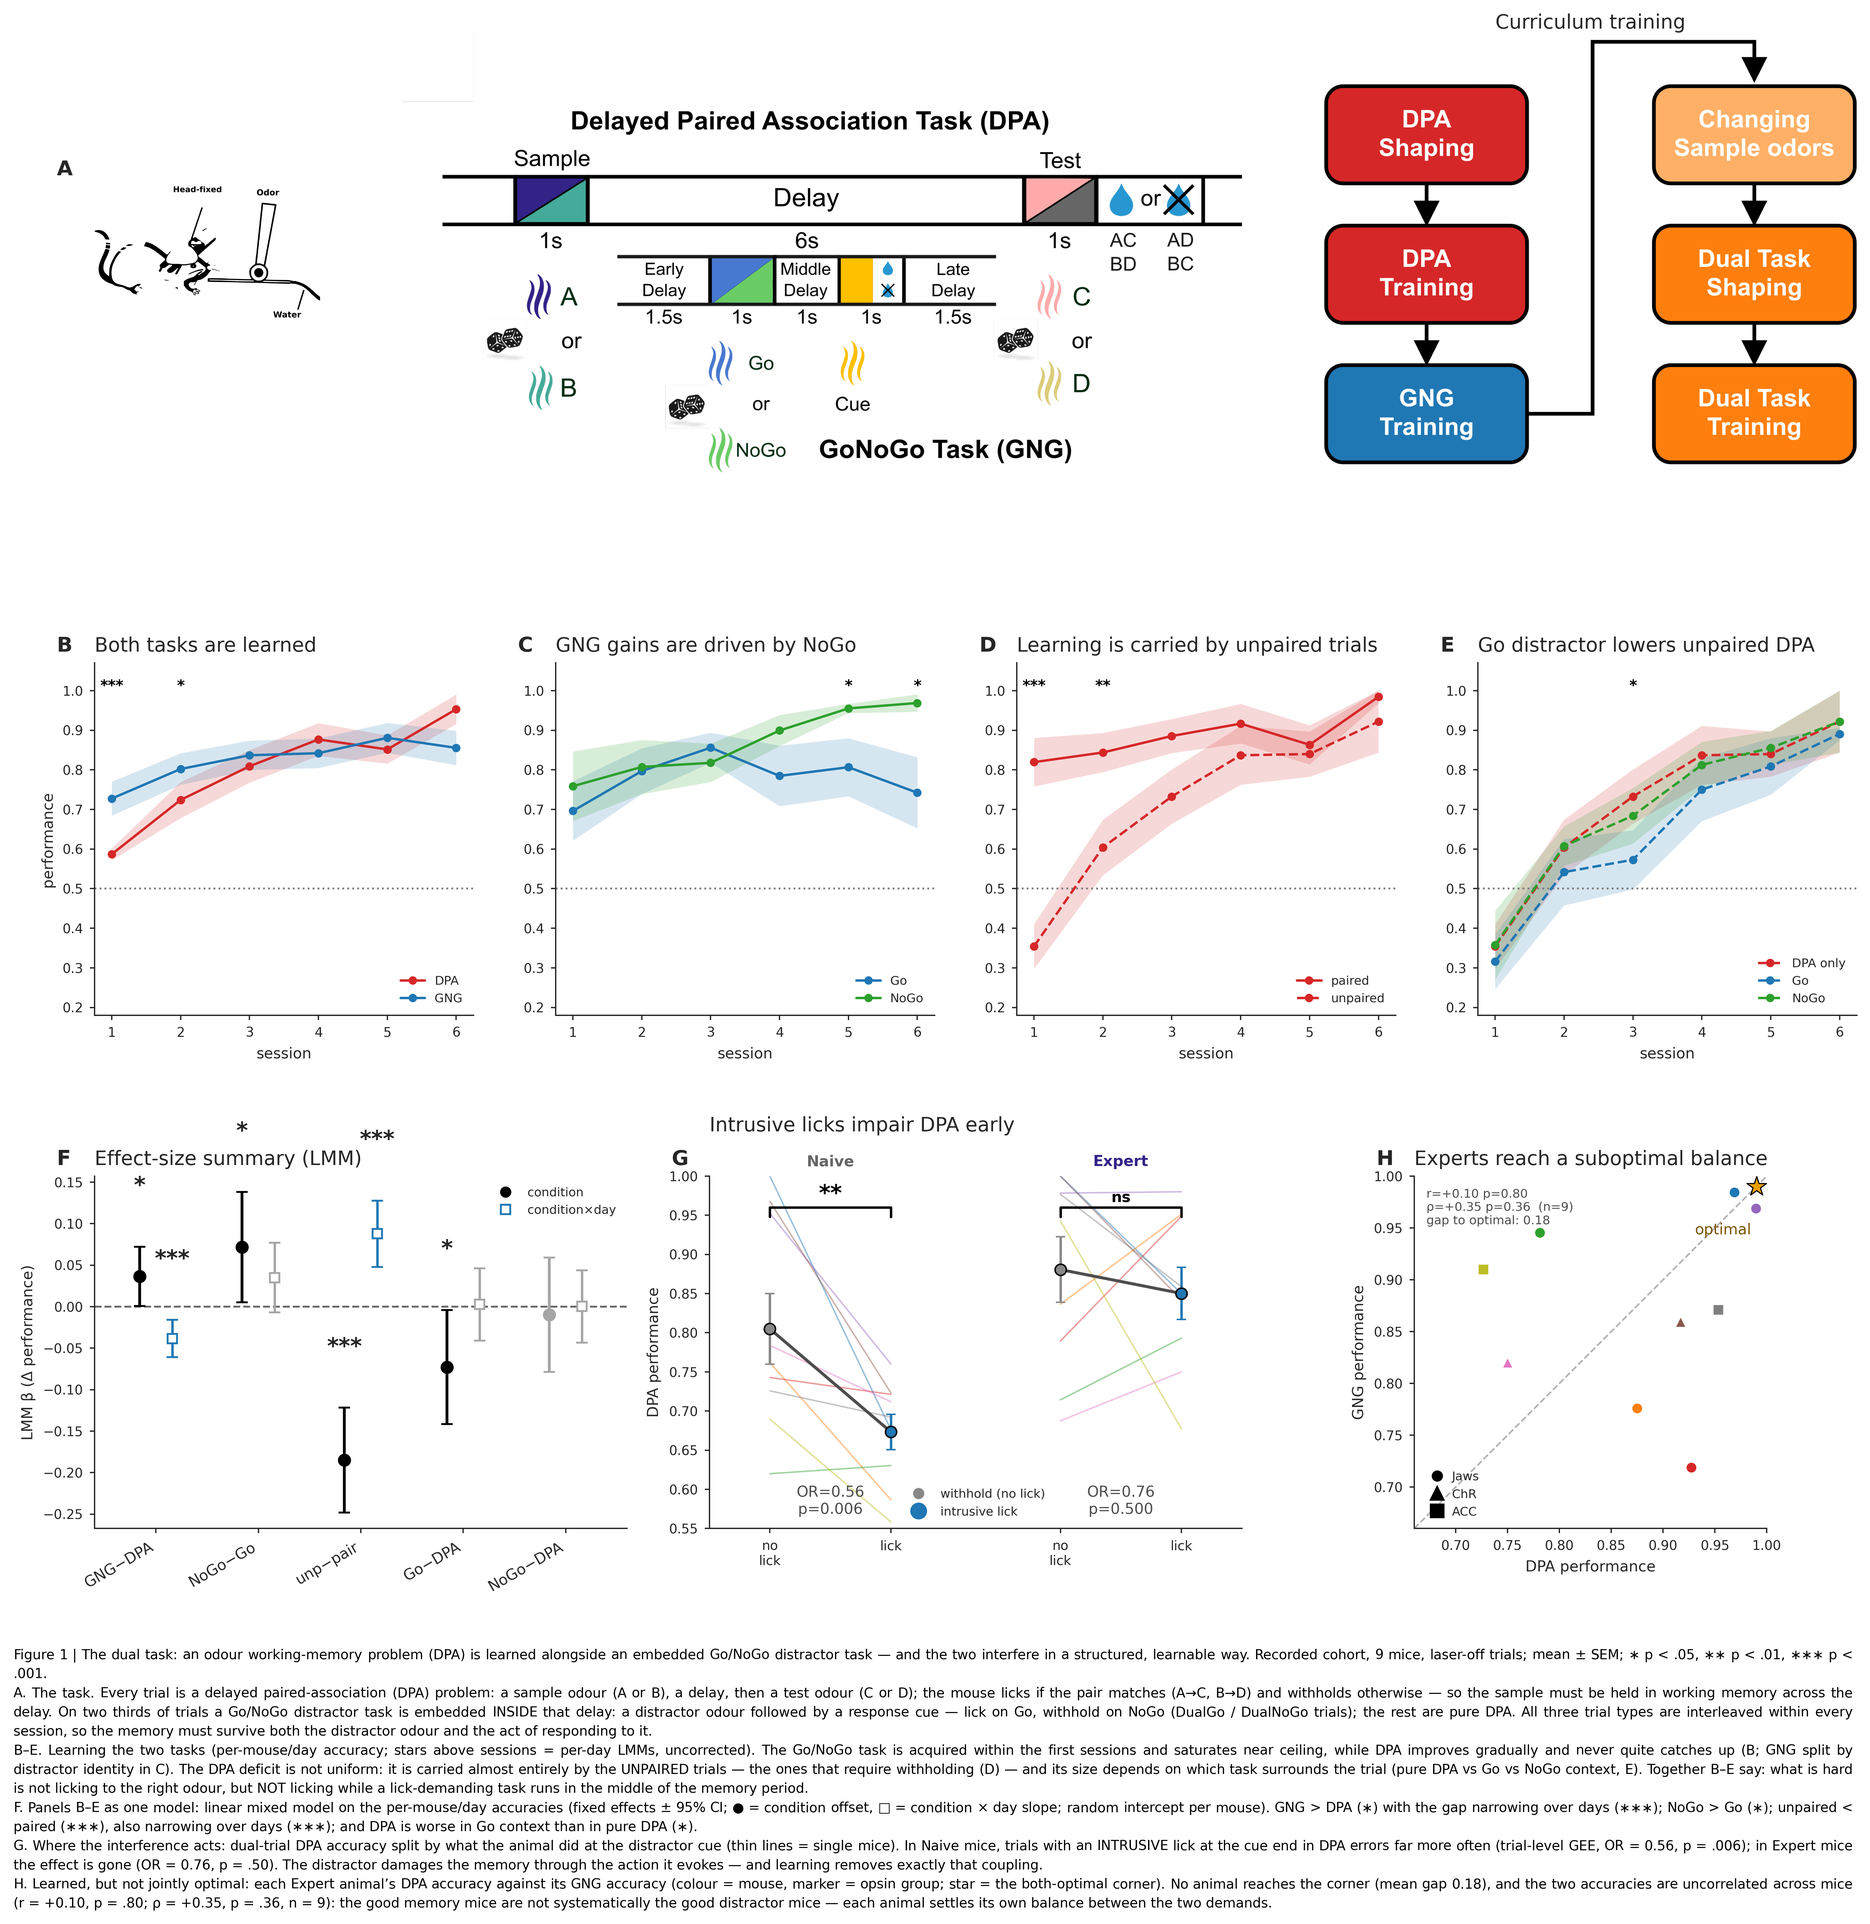
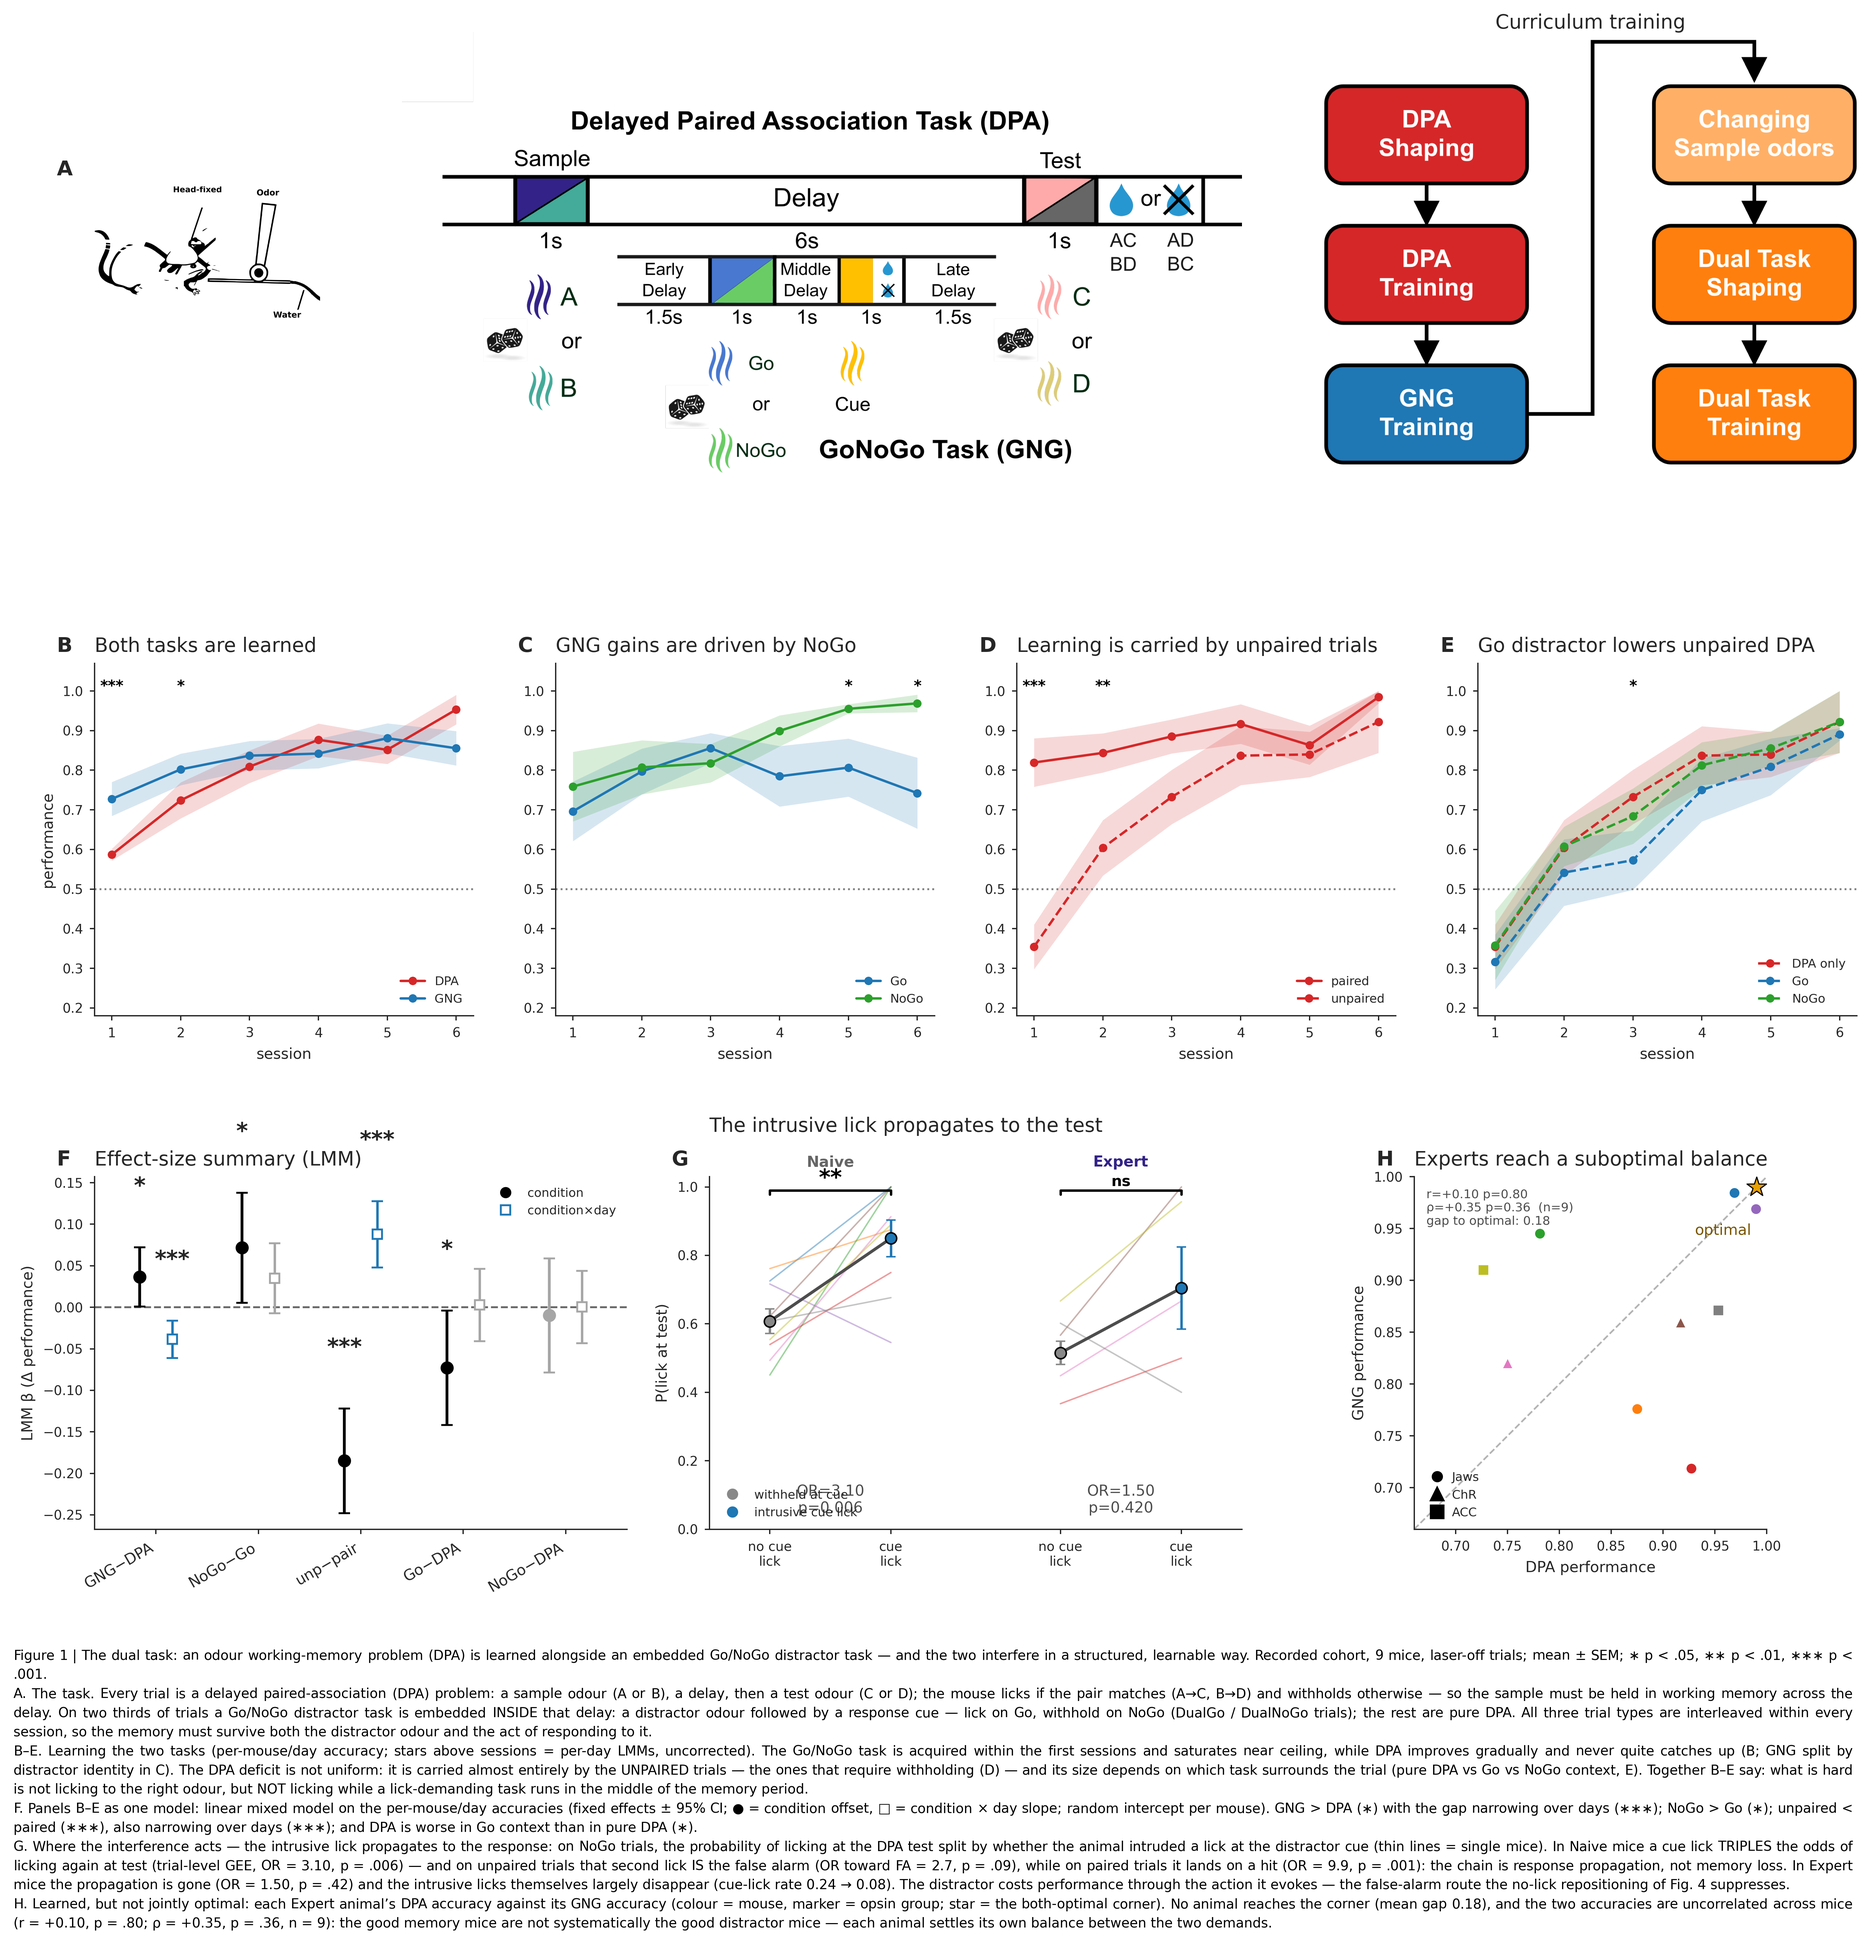
Fig 1g rebuilt: the intrusive cue lick propagates to the test lick (FA route)
User framing confirmed: the delay lick leads to FALSE ALARMS via response
propagation (the chain the Fig-4 push suppresses), not memory corruption.
Panel now: predictor = cue lick (odr_choice), outcome = P(lick at test);
Naive OR=3.10 p=.006 **, Expert OR=1.50 p=.42 ns; FA arm (unpaired)
OR=2.73 p=.090; paired arm OR=9.9 p=.001 toward a HIT (anti-corruption
control); cue-lick rate 0.24->0.08. Old any-lick build (OR=0.56) retired
as near-circular (test lick = 96.5% of the predictor).

Draft: S1 header + passage recast to FA propagation; abstract/S2/S4/
Discussion clauses aligned; Methods GEE description updated; to-reconcile
item resolved. behavior.md panel-G entry rewritten with the historical
note.

Claude-Session: https://claude.ai/code/session_01U5815xHXRaRQ7YCxMTgCsM

diff --git a/overlaps/fig_behavior_main.py b/overlaps/fig_behavior_main.py
@@ -12,7 +12,7 @@ Combines the full behaviour_learning panel set with the new mechanistic panels.
   F  LMM fixed-effect coefficients (condition + condition×day, 95% CI).
   ── new panels ──
   G  Interference: DPA accuracy by condition (pure → NoGo → Go, ordered by lick
-     rate); intrusive NoGo lick → DPA↓ (GEE, Naive).
+     rate); intrusive NoGo CUE lick propagates to the test lick (GEE, Naive ∗; FA route; rebuilt 2026-09-01).
   H  Suboptimal balance: per-animal DPA vs GNG (Expert); none reaches both-optimal.
 
 Panels B–F reproduce fig_behavior_learning.py (helpers copied per repo convention,
@@ -291,21 +291,28 @@ axF.legend(handles=[mlines.Line2D([0], [0], marker='o', color='k', ls='none', ms
                     mlines.Line2D([0], [0], marker='s', color=BLUE, mfc='white', ls='none', ms=5, label='condition×day')],
            frameon=False, fontsize=6.5, loc='upper right')
 
-# ── G: intrusive licks impair DPA — NoGo trials, no-lick vs lick (Naive+Expert) ─
-#   On NoGo trials a lick is always an unwanted intrusion (not task-required, unlike
-#   Go), so no-lick vs lick isolates the motor interference. DPA drops when the mouse
-#   intrudes a lick — significant in Naive, washes out once expert.
+# ── G: the intrusive CUE lick propagates to the test lick — NoGo trials ─────────
+#   REBUILT 2026-09-01 (predictor audit): the old build split DPA performance by
+#   `licks` = (cue OR test lick), which coincides with the test lick on 96.5% of
+#   NoGo trials — near-circular with performance. The intended claim (the delay
+#   lick leads to FALSE ALARMS, the chain the Fig-4 push suppresses) is carried by
+#   the clean variables: predictor = the CUE lick (odr_choice, the genuine
+#   intrusive delay lick), outcome = P(lick at test). Naive: cue lick triples the
+#   odds of licking again at test (propagation -> FA on unpaired trials); Expert:
+#   propagation gone, and the cue licks themselves largely vanish.
 axG = fig.add_subplot(gs[2, 4:8])
-ng = d[d.tasks == 'DualNoGo'].copy(); ng['licked'] = ng.licks.astype(int)
+ng = d[d.tasks == 'DualNoGo'].copy()
+ng['licked'] = (pd.to_numeric(ng.odr_choice, errors='coerce') > 0).astype(float)
+ng['testlick'] = (pd.to_numeric(ng.choice, errors='coerce') > 0).astype(float)
 NOLICK_C, LICK_C = '#888888', '#1f77b4'
 STAGE_X = {'Naive': (0.0, 1.0), 'Expert': (2.4, 3.4)}
 for stage, (x0, x1) in STAGE_X.items():
-    s = ng[ng.stage == stage]
+    s = ng[ng.stage == stage].dropna(subset=['licked', 'testlick'])
     nl, lk = [], []
     for m in ALL_MICE:
-        a = s[(s.mouse == m) & (s.licked == 0)].performance
-        b = s[(s.mouse == m) & (s.licked == 1)].performance
-        av, bv = (a.mean() if len(a) else np.nan), (b.mean() if len(b) else np.nan)
+        a = s[(s.mouse == m) & (s.licked == 0)].testlick
+        b = s[(s.mouse == m) & (s.licked == 1)].testlick
+        av, bv = (a.mean() if len(a) else np.nan), (b.mean() if len(b) >= 3 else np.nan)
         nl.append(av); lk.append(bv)
         if np.isfinite(av) and np.isfinite(bv):
             axG.plot([x0, x1], [av, bv], '-', color=MOUSE_COLOR[m], lw=0.8, alpha=0.45, zorder=2)
@@ -315,29 +322,33 @@ for stage, (x0, x1) in STAGE_X.items():
         axG.errorbar(xx, mn, yerr=se, fmt='o', color=col, ms=6, capsize=2.5, lw=1.3,
                      zorder=5, mec='k', mew=0.8)
     axG.plot([x0, x1], [np.nanmean(nl), np.nanmean(lk)], '-', color='0.3', lw=1.6, zorder=4)
-    ds = s.dropna(subset=['performance', 'licked'])
-    g = smf.gee('performance ~ licked', groups=ds['mouse'], data=ds,
+    g = smf.gee('testlick ~ licked', groups=s['mouse'], data=s,
                 family=sm.families.Binomial(), cov_struct=sm.cov_struct.Exchangeable()).fit()
     orr, pv = np.exp(g.params['licked']), g.pvalues['licked']
-    # significance bracket + star / ns (kept below performance = 1)
-    ybr = 0.96
+    # FA arm (unpaired trials only: the second lick IS the false alarm) -> stdout/caption
+    su = s[s.odor_pair.isin([1, 3])]
+    gf = smf.gee('testlick ~ licked', groups=su['mouse'], data=su,
+                 family=sm.families.Binomial(), cov_struct=sm.cov_struct.Exchangeable()).fit()
+    print(f'G {stage}: propagation OR={orr:.2f} p={pv:.4f} | FA arm (unpaired) '
+          f'OR={np.exp(gf.params["licked"]):.2f} p={gf.pvalues["licked"]:.4f} | '
+          f'cue-lick rate={s.licked.mean():.2f}')
+    # significance bracket + star / ns
+    ybr = 0.99
     axG.plot([x0, x0, x1, x1], [ybr - 0.012, ybr, ybr, ybr - 0.012], color='k', lw=1.3, zorder=6)
     st = star(pv) or 'ns'
     axG.text((x0 + x1) / 2, ybr + 0.003, st, ha='center', va='bottom',
              fontsize=12 if star(pv) else 8, fontweight='bold', color='k')
-    # stage labels in axes-fraction just above the frame (nothing drawn above perf = 1)
     axG.text((x0 + x1) / 2, 1.02, stage, ha='center', va='bottom',
              transform=axG.get_xaxis_transform(), clip_on=False, fontsize=8,
              fontweight='bold', color=STAGE_SHADE if stage == 'Expert' else '0.4')
-    axG.text((x0 + x1) / 2, 0.565, f'OR={orr:.2f}\np={pv:.3f}',
+    axG.text((x0 + x1) / 2, 0.04, f'OR={orr:.2f}\np={pv:.3f}',
              ha='center', va='bottom', fontsize=8, color='0.3')
-axG.axhline(0.5, ls=':', color='0.5', lw=1)
-axG.set_xticks([0, 1, 2.4, 3.4]); axG.set_xticklabels(['no\nlick', 'lick', 'no\nlick', 'lick'])
-axG.set_xlim(-0.5, 3.9); axG.set_ylim(0.55, 1.0); axG.set_ylabel('DPA performance')
-axG.legend(handles=[mlines.Line2D([0], [0], marker='o', color=NOLICK_C, ls='none', ms=5, label='withhold (no lick)'),
-                    mlines.Line2D([0], [0], marker='o', color=LICK_C, ls='none', ms=8, label='intrusive lick')],
-           frameon=False, fontsize=6.5, loc='lower center', ncol=1)
-axG.set_title('Intrusive licks impair DPA early', loc='left',
+axG.set_xticks([0, 1, 2.4, 3.4]); axG.set_xticklabels(['no cue\nlick', 'cue\nlick', 'no cue\nlick', 'cue\nlick'])
+axG.set_xlim(-0.5, 3.9); axG.set_ylim(0.0, 1.03); axG.set_ylabel('P(lick at test)')
+axG.legend(handles=[mlines.Line2D([0], [0], marker='o', color=NOLICK_C, ls='none', ms=5, label='withheld at cue'),
+                    mlines.Line2D([0], [0], marker='o', color=LICK_C, ls='none', ms=5, label='intrusive cue lick')],
+           frameon=False, fontsize=6.5, loc='lower left', ncol=1)
+axG.set_title('The intrusive lick propagates to the test', loc='left',
               fontsize=TITLE_FS, pad=24)   # raised above the Naive/Expert stage headers
 
 # ── H: suboptimal expert balance — DPA vs GNG per animal ──────────────────────
@@ -399,11 +410,16 @@ CAP_PARAS = [
     'mouse). GNG > DPA (∗) with the gap narrowing over days (∗∗∗); NoGo > Go (∗); unpaired < '
     'paired (∗∗∗), also narrowing over days (∗∗∗); and DPA is worse in Go context than in pure '
     'DPA (∗).',
-    'G. Where the interference acts: dual-trial DPA accuracy split by what the animal did at the '
-    'distractor cue (thin lines = single mice). In Naive mice, trials with an INTRUSIVE lick at '
-    'the cue end in DPA errors far more often (trial-level GEE, OR = 0.56, p = .006); in Expert '
-    'mice the effect is gone (OR = 0.76, p = .50). The distractor damages the memory through '
-    'the action it evokes — and learning removes exactly that coupling.',
+    'G. Where the interference acts — the intrusive lick propagates to the response: on NoGo '
+    'trials, the probability of licking at the DPA test split by whether the animal intruded a '
+    'lick at the distractor cue (thin lines = single mice). In Naive mice a cue lick TRIPLES '
+    'the odds of licking again at test (trial-level GEE, OR = 3.10, p = .006) — and on '
+    'unpaired trials that second lick IS the false alarm (OR toward FA = 2.7, p = .09), while '
+    'on paired trials it lands on a hit (OR = 9.9, p = .001): the chain is response '
+    'propagation, not memory loss. In Expert mice the propagation is gone (OR = 1.50, p = .42) '
+    'and the intrusive licks themselves largely disappear (cue-lick rate 0.24 → 0.08). The '
+    'distractor costs performance through the action it evokes — the false-alarm route the '
+    'no-lick repositioning of Fig. 4 suppresses.',
     'H. Learned, but not jointly optimal: each Expert animal’s DPA accuracy against its GNG '
     'accuracy (colour = mouse, marker = opsin group; star = the both-optimal corner). No animal '
     'reaches the corner (mean gap 0.18), and the two accuracies are uncorrelated across mice '

diff --git a/docs/behavior.md b/docs/behavior.md
@@ -243,9 +243,15 @@ Publication-ready assembly (recorded cohort, laser OFF, 9 mice; loads the non-la
 - **B–E** — the five learning curves from `fig_behavior_learning.py` (helpers copied per repo
   convention): B DPA-vs-GNG, C Go-vs-NoGo, D paired-vs-unpaired, E unpaired-by-task; per-day LMM stars.
 - **F** — LMM effect-size forest (condition + condition×day βs).
-- **G** — **intrusive licks impair DPA early**: NoGo trials, no-lick vs intrusive-lick DPA accuracy,
-  Naive vs Expert, per-mouse lines + mean±SEM, GEE(DPA-correct ~ lick, clustered by mouse) OR/p with
-  significance brackets (Naive OR=0.56 **p=.006 `**`**; Expert OR=0.76 p=.50 `ns`).
+- **G** — **the intrusive lick propagates to the test** (REBUILT 2026-09-01 after the predictor
+  audit; user framing: the delay lick leads to FALSE ALARMS — the chain the Fig-4 push suppresses):
+  NoGo trials, P(lick at test) split by the CUE lick (`odr_choice`, the pure delay lick), Naive vs
+  Expert, per-mouse lines + mean±SEM, GEE(test-lick ~ cue-lick, clustered by mouse):
+  Naive OR=3.10 **p=.006 `**`**, Expert OR=1.50 p=.42 `ns`; FA arm (unpaired) OR=2.73 p=.090,
+  paired arm OR=9.9 p=.001 toward a HIT (anti-corruption control); cue-lick rate 0.24→0.08.
+  [Historical: the pre-2026-09-01 build split DPA accuracy by `licks` = (cue OR test lick) —
+  near-circular (the test lick = 96.5% of the predictor); its Naive OR=0.56 p=.006 was carried
+  by the test lick and is RETIRED. Do not quote it.]
 - **H** — **experts reach a suboptimal balance**: per-mouse DPA-vs-GNG scatter (Naive→Expert), y=x,
   Pearson/Spearman + mean gap-to-optimal.
 

diff --git a/docs/paper/discussion_draft.md b/docs/paper/discussion_draft.md
@@ -43,7 +43,8 @@ conceptually adjacent to, but distinct from, the output-null principle in motor 
 [Kaufman 2014]: preparation there is held where it *cannot* drive output; the memory here is held
 where it actively *opposes* output — a displacement along the potent axis, not a retreat into
 null space. Consistent with a protective function, the behavioural cost of the distractor is
-precisely an evoked lick (Fig. 1g), the animals that push deeper improve more (Fig. 4c), and the
+precisely an evoked lick that propagates to the test response — the false-alarm route
+(Fig. 1g) — the animals that push deeper improve more (Fig. 4c), and the
 interference disappears over the same learning period in which the push deepens. The dual-trial
 decay of the sample readout (Fig. 3a) is the code-morphing phenomenon described after distractors
 in primate PFC [Parthasarathy 2017]; our cross-task transfer (Fig. 2e) adds that the morphed code
